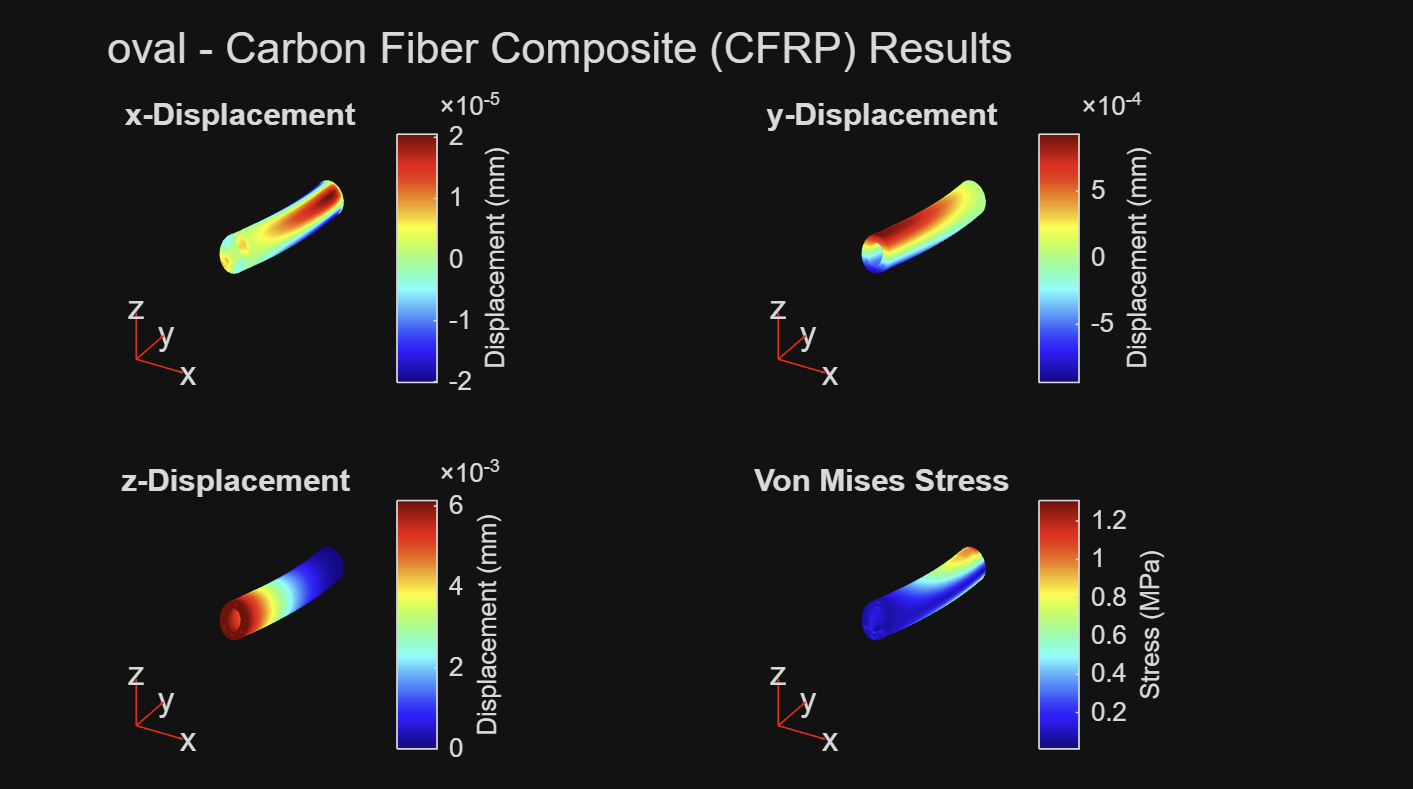
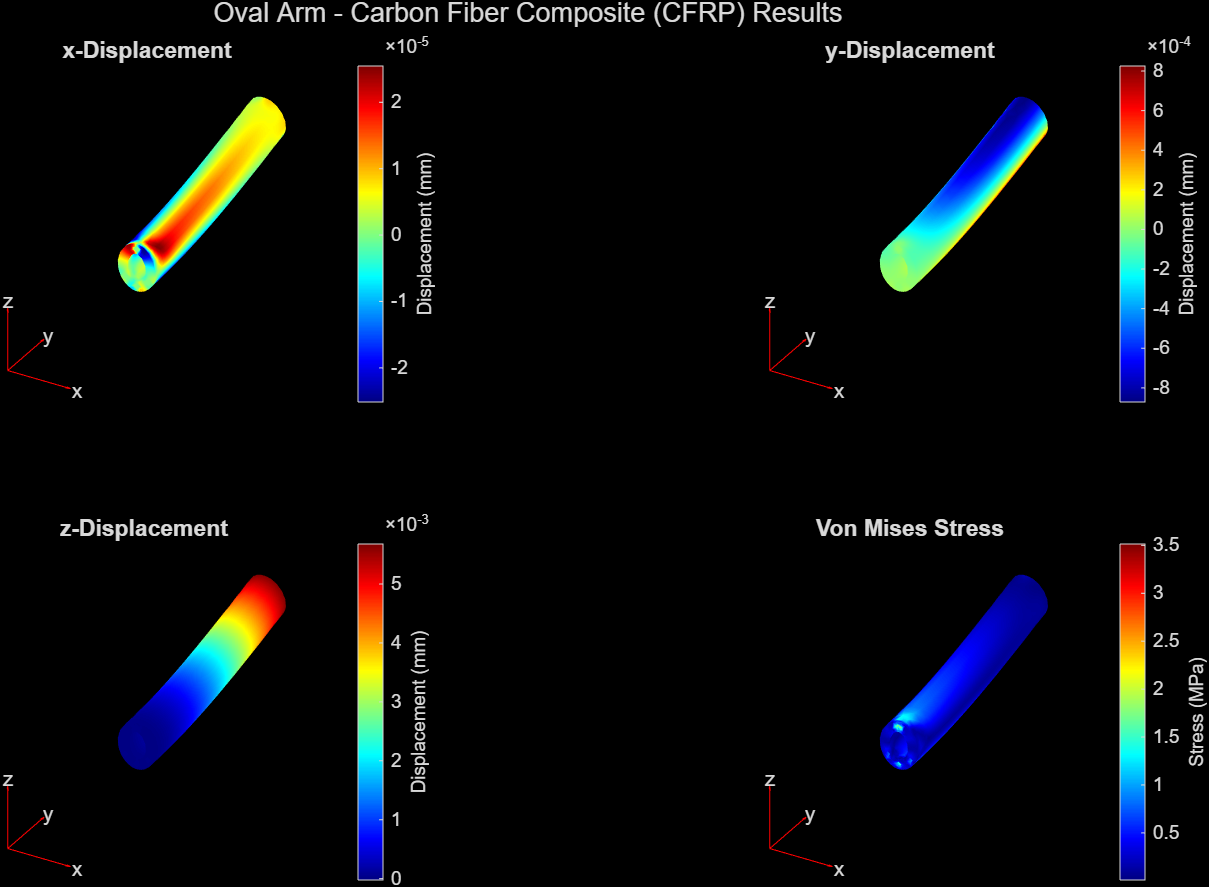
Update images and README.md

diff --git a/README.md b/README.md
@@ -15,7 +15,7 @@ After completing a MATLAB code to run a stress analysis and finite element analy
 2. Open `DroneDesign_StudentProjectTemplate.mlx` in MATLAB.
 3. Update the `filePaths` string array so that it contains the relative path to each CAD file.
 4. Update the `designNames` string array so that each design name corresponds to the CAD file in the same array position.
-5. Update the `areas` array using units of square meters. In the current implementation, each value represents the surface area of one loaded face. The code assumes that all loaded faces selected for a design have equal areas.
+5. Update the `areas` array using units of square meters. In the current implementation, each value represents the surface area of one loaded face. The code assumes that all loaded faces selected for a design have equal areas, and the function multiplies this value by the number of selected loaded faces..
 6. Run Task 1 to load the material properties and initialize the project parameters.
 7. Run Task 3 to calculate the volume, arm mass, and maximum payload for each design and material combination.
 8. Run the first portion of Task 4 containing `designVisualizer(filePaths)`. Use the displayed face labels to identify the attachment and load surfaces on each model.
@@ -27,12 +27,20 @@ After completing a MATLAB code to run a stress analysis and finite element analy
 * maintains a thrust-to-weight ratio of at least 2:1, and
 * has a factor of safety of at least 1.5.
 # Results
-
+## Summary of Payload and FEA Results
 ![Final table of results (task 4)](images/FEA_Results_Table.png)
 
+## Carbon Fiber Composite Planar Truss: Displacement and Von Mises Stress
 ![FEA of truss (Carbon fiber)](images/trussFEA.png)
 
+## Carbon Fiber Composite Hollow Oval Arm: Displacement and Von Mises Stress
 ![FEA of hollow oval (Carbon fiber)](images/ovalFEA.png)
 
+
+# Final Recommendation
+
+The recommended design is the planar truss arm made from carbon fiber composite. This combination supports a maximum payload of 0.8973 kg while limiting maximum displacement to approximately 0.0224 mm and maintaining a factor of safety above the required minimum of 1.5.
+
+Although several lower-density materials provided slightly higher maximum payload capacities, they also experienced greater displacement. The carbon fiber truss therefore provided the best overall balance between payload capacity, stiffness, mass efficiency, and structural safety.
 # Contact
 raynittacillo@gmail.com
